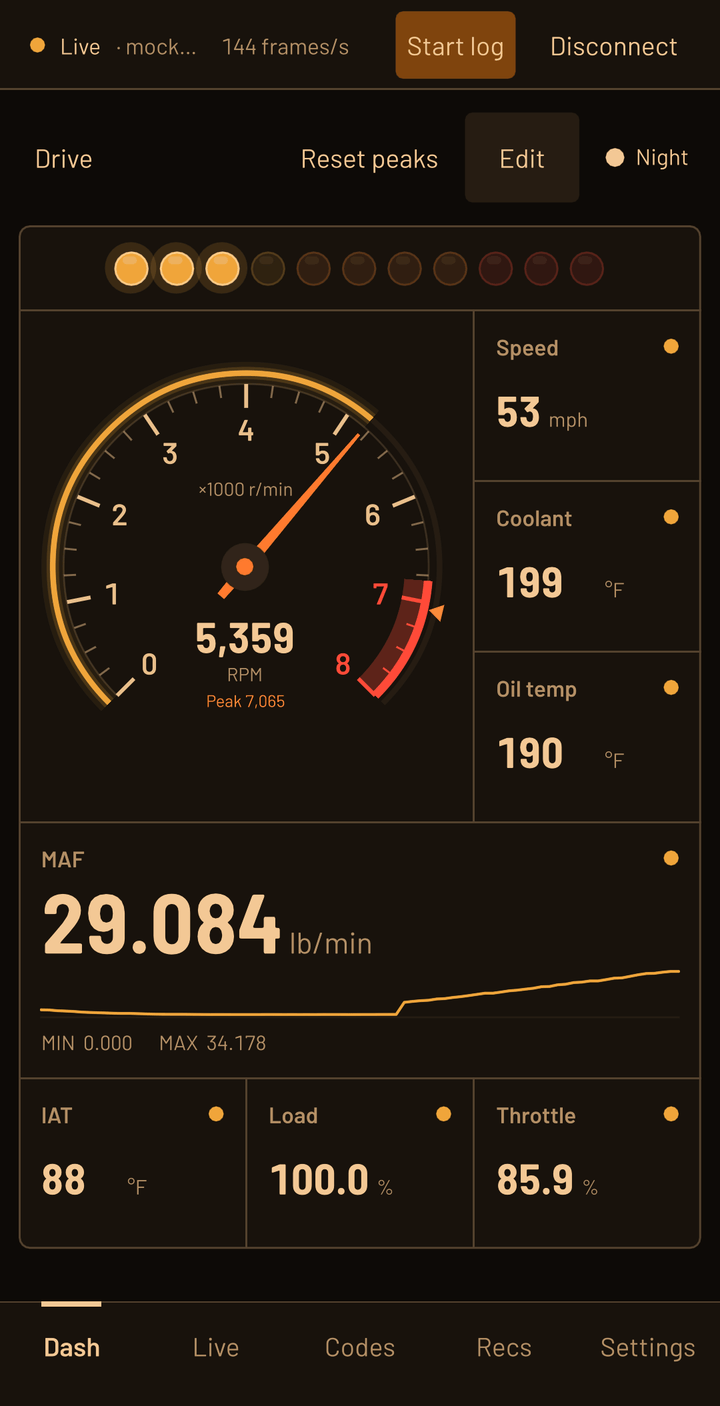
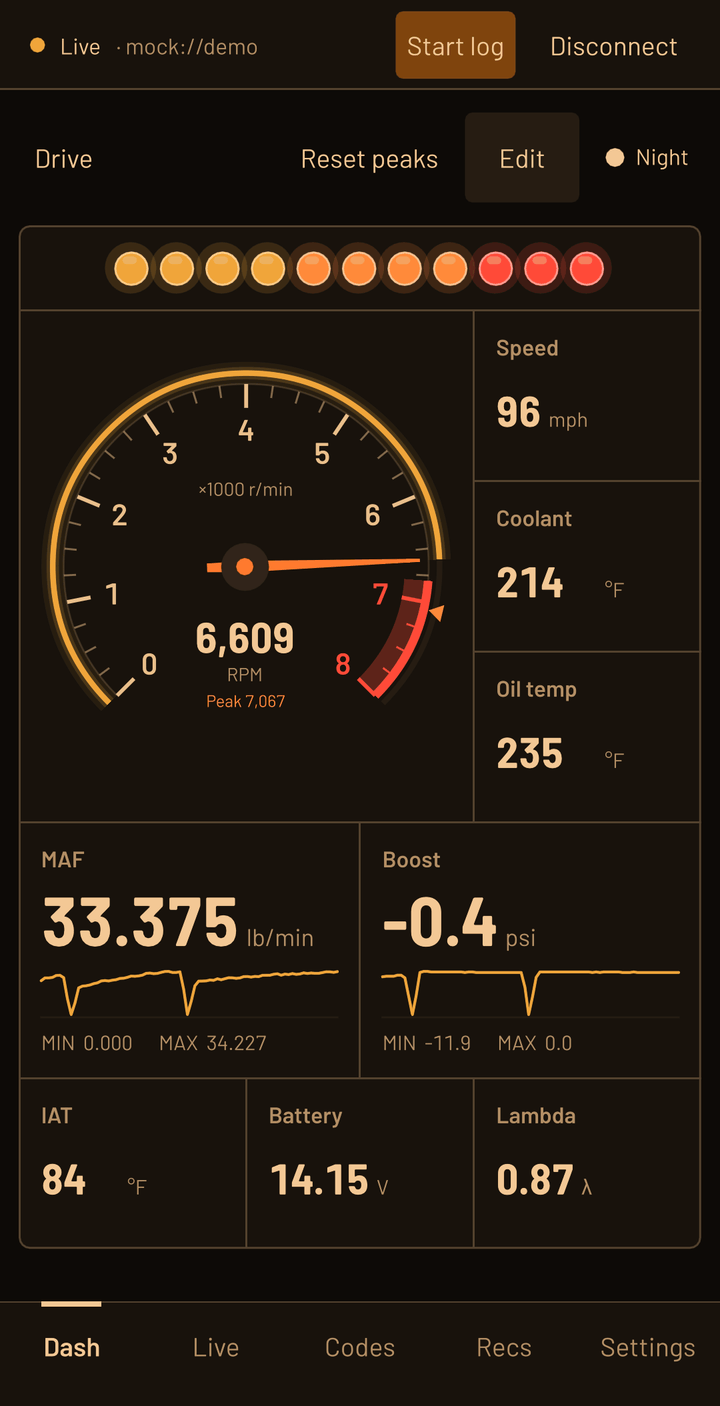
docs: retake the phone Dashboards and show the drive view
The phone Dashboard shots in Dark, Night amber and Night red show the built-in layout with Boost, Battery and Lambda. The drive view takes the plain Dashboard's place in the README's phone row and joins the gallery, as does the Dashboard in the Light look. All five are the phone layout drawn by the desktop build at the phone's width, on mock://demo in a warm pull.

diff --git a/docs/screenshots.md b/docs/screenshots.md
@@ -10,9 +10,9 @@ shots show. The README shows a few of these.
 
 - **Desktop:** the Windows app at 1280x800.
 - **Phone:** Live, Codes, the Log and Settings are from the test phone
-  (Android 16). The Dashboard is the phone layout with its built-in
-  default page, the same page drawn by the desktop build in the phone's
-  form at the phone's width.
+  (Android 16). The Dashboard and the drive view are the phone layout
+  with its built-in default page, the same page drawn by the desktop
+  build in the phone's form at the phone's width.
 
 ## Desktop
 
@@ -80,10 +80,23 @@ pulls, coolant and oil warming from the cold start.*
 
 | Dark | Night, amber | Night, red |
 |---|---|---|
-| [![The phone layout's Dashboard in a 2nd-gear pull at 6,252 rpm](images/phone-dashboard-dark.png)](images/phone-dashboard-dark.png) | [![The phone layout's Dashboard in Night's amber style at 5,359 rpm](images/phone-dashboard-amber.png)](images/phone-dashboard-amber.png) | [![The phone layout's Dashboard in Night's red style at 6,475 rpm](images/phone-dashboard-night.png)](images/phone-dashboard-night.png) |
+| [![The phone layout's Dashboard in a pull at 6,762 rpm](images/phone-dashboard-dark.png)](images/phone-dashboard-dark.png) | [![The phone layout's Dashboard in Night's amber style at 6,609 rpm](images/phone-dashboard-amber.png)](images/phone-dashboard-amber.png) | [![The phone layout's Dashboard in Night's red style at 6,568 rpm](images/phone-dashboard-night.png)](images/phone-dashboard-night.png) |
 
 *The phone's joined panel: the tach beside speed, coolant and oil, MAF
-with its trace, then intake air, load and throttle.*
+and boost with their traces, then intake air, battery and lambda.*
+
+### Dashboard in Light
+
+<a href="images/phone-dashboard-light.png"><img src="images/phone-dashboard-light.png" alt="The phone layout's Dashboard in the Light look at 6,517 rpm" width="240"></a>
+
+*Light: dark text on white, for the sun (Settings, Display, Look).*
+
+### Drive view
+
+<a href="images/phone-drive-view.png"><img src="images/phone-drive-view.png" alt="The phone layout's drive view: every bar hidden, the gauges filling the screen in a pull at 6,510 rpm" width="240"></a>
+
+*The drive view: the status line alone at the top and the panel filling
+the screen; a tap raises the controls from the bottom with the tab bar.*
 
 ### Live
 

diff --git a/README.md b/README.md
@@ -40,16 +40,16 @@ Havne reads a car through J2534, ELM327 or SocketCAN adapters on Windows, Linux 
 
 <table>
 <thead>
-<tr><th width="33%">Dashboard</th><th width="33%">Codes</th><th width="33%">Dashboard at night</th></tr>
+<tr><th width="33%">Drive view</th><th width="33%">Codes</th><th width="33%">Dashboard at night</th></tr>
 </thead>
 <tbody>
 <tr>
-<td><a href="docs/images/phone-dashboard-dark.png"><img src="docs/images/phone-dashboard-dark.png" alt="The phone layout's Dashboard in a 2nd-gear pull at 6,252 rpm" width="240"></a></td>
+<td><a href="docs/images/phone-drive-view.png"><img src="docs/images/phone-drive-view.png" alt="The phone layout's drive view: every bar hidden, the gauges filling the screen in a pull at 6,510 rpm" width="240"></a></td>
 <td><a href="docs/images/phone-codes.png"><img src="docs/images/phone-codes.png" alt="Codes on the test phone: the inspection verdict, the check-engine light, and stored, pending and permanent codes with their titles" width="240"></a></td>
 <td><a href="docs/images/phone-dashboard-night.png"><img src="docs/images/phone-dashboard-night.png" alt="The phone layout's Dashboard with Night on in red" width="240"></a></td>
 </tr>
 <tr>
-<td>The phone layout in a 2nd-gear pull, the shift lights filling</td>
+<td>The drive view: every bar hidden, the gauges filling the screen in a pull</td>
 <td>Reading and clearing codes on the test phone</td>
 <td>Night in red, for a dark cabin</td>
 </tr>
